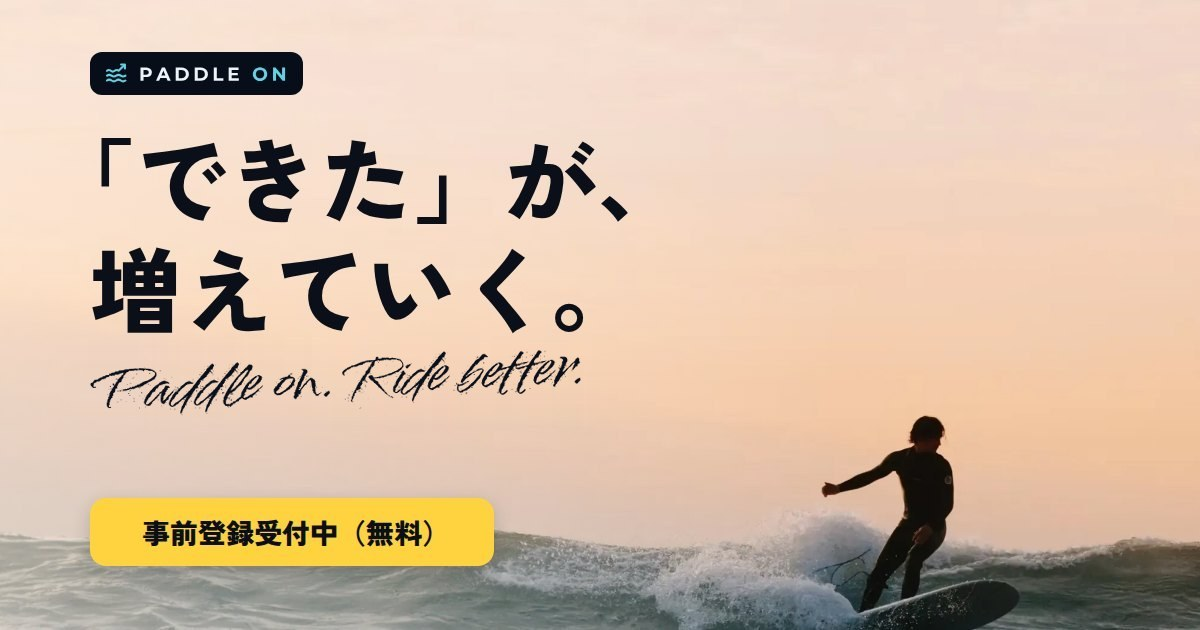
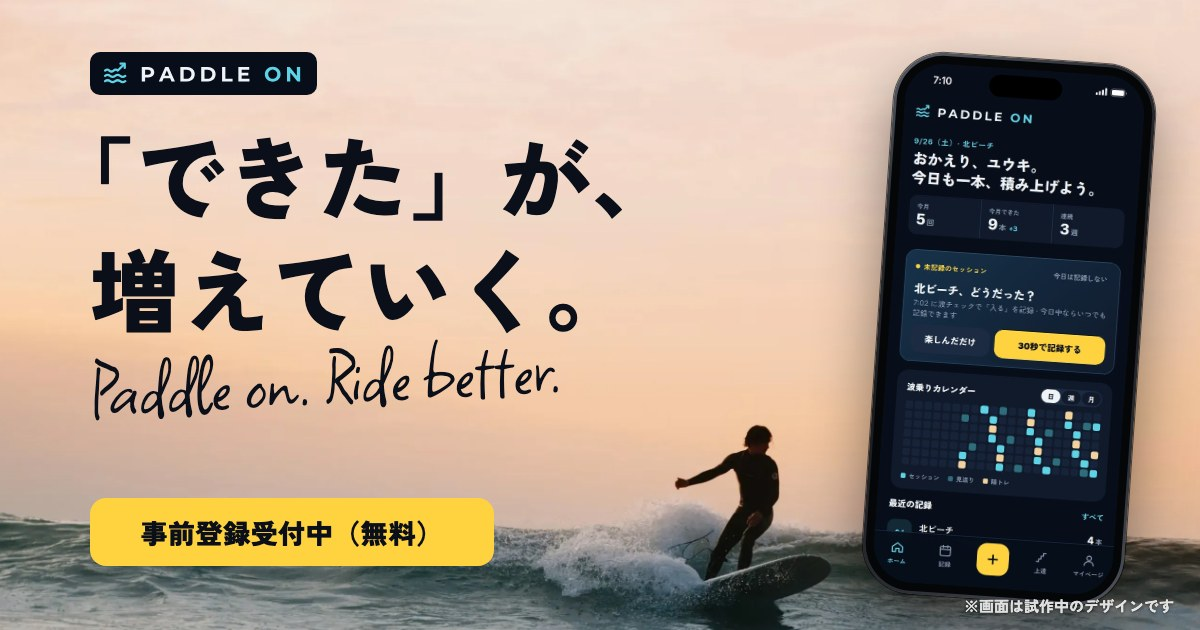
キャッチコピーのフォントを Square Peg に変更し、OGP画像にアプリの画面を追加
- LP：.tagline を Square Peg に（字が小さいフォントなので文字サイズを上げる）
- OGP画像：og/og.html から書き出す形に作り直し、アプリのホーム画面と「試作中」の注記を追加
- og/build.sh：Chrome で撮影して public/og.jpg を書き出すスクリプト
- 商標チェックの対象に og/ を追加

diff --git a/og/og.html b/og/og.html
@@ -1,0 +1,42 @@
+<!doctype html>
+<html lang="ja">
+<head>
+<meta charset="utf-8">
+<title>PADDLE ON の OGP 画像（1200×630）</title>
+<!--
+  OGP 画像（public/og.jpg）の元になるページ。og/build.sh が Chrome でこのページを 1200×630 で撮影して og.jpg を作る。
+  文言・フォント・アプリ画面を変えるときは、ここを直して build.sh を実行する。
+  他社のロゴ（Apple のマークなど）やストア名は入れない（CLAUDE.md「商標とロゴ」）。
+-->
+<link rel="preconnect" href="https://fonts.googleapis.com">
+<link rel="preconnect" href="https://fonts.gstatic.com" crossorigin>
+<link href="https://fonts.googleapis.com/css2?family=Square+Peg&display=block" rel="stylesheet">
+<style>
+@font-face{font-family:'Zen Kaku Gothic New';font-weight:700;src:url(../public/fonts/zkgn-700.woff2) format('woff2')}
+@font-face{font-family:'Zen Kaku Gothic New';font-weight:900;src:url(../public/fonts/zkgn-900.woff2) format('woff2')}
+*{box-sizing:border-box}
+html,body{margin:0;width:1200px;height:630px;overflow:hidden}
+body{position:relative;font-family:'Zen Kaku Gothic New',sans-serif;color:#0A0F1A;
+  background:#F3D9C6 url(../public/img/hero-bg.webp) no-repeat;background-size:var(--bg-w) auto;background-position:var(--bg-x) var(--bg-y);
+  --bg-w:2330px;--bg-x:-480px;--bg-y:-180px}
+.logo{position:absolute;left:90px;top:52px;display:flex;align-items:center;height:43px;padding:0 14px;border-radius:10px;background:#070E1A}
+h1{position:absolute;left:90px;top:118px;margin:0;font-weight:900;font-size:90px;line-height:1.25;letter-spacing:.01em;text-indent:-.5em;padding-left:.5em;margin-left:-.5em;white-space:nowrap}
+.tagline{position:absolute;left:92px;top:352px;font-family:'Square Peg',cursive;font-size:84px;line-height:1;white-space:nowrap;transform:rotate(-3deg);transform-origin:left center}
+.cta{position:absolute;left:90px;top:498px;display:flex;align-items:center;justify-content:center;width:404px;height:68px;border-radius:16px;background:#FFD23F;font-weight:900;font-size:27px;letter-spacing:.02em}
+/* アプリの画面（LP の .iphone と同じ作り） */
+.iphone{--w:262px;position:absolute;left:878px;top:58px;width:var(--w);padding:3px;border-radius:calc(var(--w)*.19);background:linear-gradient(145deg,#5A5F69 0%,#2A2D33 22%,#1B1D21 50%,#2A2D33 78%,#50545D 100%);box-shadow:0 30px 60px rgba(0,0,0,.45),0 0 0 1px rgba(0,0,0,.6);transform:rotate(4deg)}
+.iphone .bz{padding:calc(var(--w)*.03);border-radius:calc(var(--w)*.19 - 3px);background:#050608}
+.iphone img{display:block;width:100%;height:auto;aspect-ratio:780/1688;object-fit:cover;border-radius:calc(var(--w)*.16 - 3px)}
+.iphone .di{position:absolute;left:50%;top:calc(3px + var(--w)*.058);width:calc(var(--w)*.28);aspect-ratio:126/37;transform:translateX(-50%);border-radius:999px;background:#000}
+.note{position:absolute;right:26px;bottom:14px;font-weight:700;font-size:15px;color:rgba(255,255,255,.85);text-shadow:0 1px 3px rgba(0,0,0,.5)}
+</style>
+</head>
+<body>
+  <div class="logo"><svg width="198.6" height="23" viewBox="0 -2 552.7 64" role="img" aria-label="PADDLE ON" style="display: block; flex-shrink: 0"><g transform="translate(-2.96 -9.26) scale(0.74)"><path d="M8 42 q 8 -7 16 0 q 8 7 16 0 q 8 -7 16 0 L 80 18" fill="none" stroke="#5ED3E6" stroke-width="8.5" stroke-linecap="round" stroke-linejoin="round"/><path d="M66 16 L82 16 L82 32" fill="none" stroke="#5ED3E6" stroke-width="8.5" stroke-linecap="round" stroke-linejoin="round"/><path d="M8.0 62.0 q 9.5 -7.0 19.0 0 q 9.5 7.0 19.0 0 q 9.5 -7.0 19.0 0 q 9.5 7.0 19.0 0" fill="none" stroke="#5ED3E6" stroke-width="8.5" stroke-linecap="round" stroke-linejoin="round"/><path d="M8.0 82.0 q 9.5 -7.0 19.0 0 q 9.5 7.0 19.0 0 q 9.5 -7.0 19.0 0 q 9.5 7.0 19.0 0" fill="none" stroke="#5ED3E6" stroke-width="8.5" stroke-linecap="round" stroke-linejoin="round"/></g><g transform="translate(100.4 12)"><path d="M4.74 40V0H22.06Q27.43 0 31.31 1.74Q35.2 3.49 37.31 6.74Q39.43 10 39.43 14.51Q39.43 18.97 37.31 22.23Q35.2 25.49 31.31 27.23Q27.43 28.97 22.06 28.97H9.89L14 24.8V40ZM14 25.83 9.89 21.43H21.54Q25.83 21.43 27.94 19.6Q30.06 17.77 30.06 14.51Q30.06 11.2 27.94 9.37Q25.83 7.54 21.54 7.54H9.89L14 3.14ZM52.17 40 70 0H79.14L97.03 40H87.31L72.69 4.69H76.34L61.66 40ZM61.09 31.43 63.54 24.4H84.11L86.63 31.43ZM112.06 40V0H130.23Q136.74 0 141.71 2.49Q146.69 4.97 149.49 9.43Q152.29 13.89 152.29 20Q152.29 26.06 149.49 30.54Q146.69 35.03 141.71 37.51Q136.74 40 130.23 40ZM121.31 32.4H129.77Q133.77 32.4 136.71 30.89Q139.66 29.37 141.29 26.57Q142.91 23.77 142.91 20Q142.91 16.17 141.29 13.4Q139.66 10.63 136.71 9.11Q133.77 7.6 129.77 7.6H121.31ZM170.11 40V0H188.29Q194.8 0 199.77 2.49Q204.74 4.97 207.54 9.43Q210.34 13.89 210.34 20Q210.34 26.06 207.54 30.54Q204.74 35.03 199.77 37.51Q194.8 40 188.29 40ZM179.37 32.4H187.83Q191.83 32.4 194.77 30.89Q197.71 29.37 199.34 26.57Q200.97 23.77 200.97 20Q200.97 16.17 199.34 13.4Q197.71 10.63 194.77 9.11Q191.83 7.6 187.83 7.6H179.37ZM228.17 40V0H237.43V32.46H257.49V40ZM273.54 40V0H303.77V7.43H282.74V32.57H304.51V40ZM282.06 23.31V16.11H301.31V23.31Z" fill="#EEF3F8"/><path d="M369.2 40.69Q364.46 40.69 360.43 39.14Q356.4 37.6 353.46 34.8Q350.51 32 348.89 28.23Q347.26 24.46 347.26 20Q347.26 15.54 348.89 11.77Q350.51 8 353.49 5.2Q356.46 2.4 360.46 0.86Q364.46 -0.69 369.14 -0.69Q373.89 -0.69 377.86 0.86Q381.83 2.4 384.77 5.2Q387.71 8 389.37 11.74Q391.03 15.49 391.03 20Q391.03 24.46 389.37 28.26Q387.71 32.06 384.77 34.83Q381.83 37.6 377.86 39.14Q373.89 40.69 369.2 40.69ZM369.14 32.8Q371.83 32.8 374.09 31.89Q376.34 30.97 378.06 29.26Q379.77 27.54 380.71 25.2Q381.66 22.86 381.66 20Q381.66 17.14 380.71 14.8Q379.77 12.46 378.09 10.74Q376.4 9.03 374.11 8.11Q371.83 7.2 369.14 7.2Q366.46 7.2 364.2 8.11Q361.94 9.03 360.23 10.74Q358.51 12.46 357.57 14.8Q356.63 17.14 356.63 20Q356.63 22.8 357.57 25.17Q358.51 27.54 360.2 29.26Q361.89 30.97 364.17 31.89Q366.46 32.8 369.14 32.8ZM408.86 40V0H416.51L440.11 28.8H436.4V0H445.54V40H437.94L414.29 11.2H418V40Z" fill="#5ED3E6"/></g></svg></div>
+  <h1>「できた」が、<br>増えていく。</h1>
+  <div class="tagline">Paddle on. Ride better.</div>
+  <div class="cta">事前登録受付中（無料）</div>
+  <div class="iphone"><div class="bz"><img src="../public/img/app-home.jpg" alt=""></div><span class="di"></span></div>
+  <div class="note">※画面は試作中のデザインです</div>
+</body>
+</html>

diff --git a/public/index.html b/public/index.html
@@ -29,7 +29,7 @@
 <link rel="preload" as="image" href="img/hero-bg-sp.webp" media="(max-width:960px)" fetchpriority="high">
 <link rel="preconnect" href="https://fonts.googleapis.com">
 <link rel="preconnect" href="https://fonts.gstatic.com" crossorigin>
-<link href="https://fonts.googleapis.com/css2?family=Inter:wght@400;600;700;800;900&family=Montserrat:wght@700&family=Splash&display=swap" rel="stylesheet">
+<link href="https://fonts.googleapis.com/css2?family=Inter:wght@400;600;700;800;900&family=Montserrat:wght@700&family=Square+Peg&display=swap" rel="stylesheet">
 <style>
 @font-face{font-family:'Zen Kaku Gothic New';font-weight:500;font-display:swap;src:url(fonts/zkgn-500.woff2) format('woff2')}
 @font-face{font-family:'Zen Kaku Gothic New';font-weight:700;font-display:swap;src:url(fonts/zkgn-700.woff2) format('woff2')}
@@ -79,7 +79,7 @@ section{scroll-margin-top:72px}
 .hero .copy{display:flex;flex-direction:column;gap:22px}
 .pill{align-self:flex-start;font-size:12px;font-weight:700;color:var(--cyan);letter-spacing:.1em;border:1px solid rgba(94,211,230,.4);padding:4px 10px;border-radius:999px}
 .hero h1{font-size:clamp(36px,5.6vw,58px);line-height:1.25;text-indent:-.5em}
-.tagline{font-family:'Splash',cursive;font-weight:400;letter-spacing:.01em;color:var(--cyan);font-size:clamp(30px,3vw,38px);transform:rotate(-3deg);transform-origin:left center;margin-top:-4px}
+.tagline{font-family:'Square Peg',cursive;font-weight:400;letter-spacing:.01em;color:var(--cyan);font-size:clamp(40px,4.1vw,52px);line-height:1.1;transform:rotate(-3deg);transform-origin:left center;margin-top:-4px}
 .hero .lead{max-width:34em}
 .cta-row{display:flex;flex-wrap:wrap;gap:12px;align-items:center}
 .store{position:relative;display:inline-flex;align-items:center;gap:8px;height:48px;padding:0 16px;border-radius:12px;border:1px solid var(--line);color:var(--text);font-size:13px;font-weight:800}

diff --git a/scripts/check-trademarks.py b/scripts/check-trademarks.py
@@ -27,7 +27,8 @@ RULES = [
 ]
 
 errors: list[str] = []
-for path in sorted(PUBLIC.rglob("*")):
+targets = sorted(PUBLIC.rglob("*")) + sorted((ROOT / "og").rglob("*"))  # og/ は OGP 画像の元になるページ
+for path in targets:
     if path.suffix not in {".html", ".svg", ".css", ".js", ".txt", ".xml", ".md"}:
         continue
     for no, line in enumerate(path.read_text(encoding="utf-8", errors="ignore").splitlines(), 1):

diff --git a/docs/operations.md b/docs/operations.md
@@ -24,11 +24,12 @@ GA4の管理画面 →「データの表示」→「イベント」で `sign_up`
 ## 注意
 
 - **日本語フォント**：`public/fonts/` の Zen Kaku Gothic New は、ページ内の文字だけに絞って軽くしています（1ファイル約70KB）。文章を書き換えて新しい漢字を使うと、その文字だけ別の書体で表示されます。`npm run check` が足りない文字を知らせるので、出たらフォントを作り直します。
-- **英字フォント**：Inter・Montserrat・Splash は Google Fonts から読み込んでいます（プライバシーポリシーの「4. 外部サービスの利用」に記載済み）。
+- **英字フォント**：Inter・Montserrat・Square Peg は Google Fonts から読み込んでいます（プライバシーポリシーの「4. 外部サービスの利用」に記載済み）。
 
 - **Supabase の無料プラン**は、7日間データベースへのアクセスが少ないとプロジェクトが一時停止されます（停止の約1週間前と停止時に、オーナーにメールが届きます）。LPを見られるだけでは Supabase にアクセスしないので、登録が1週間なければ止まり、フォームが送れなくなります。止まったらダッシュボードから再開できます（停止から90日以内）。
   - 対策として、GitHub Actions の **Keepalive**（`.github/workflows/keepalive.yml`）が毎日 9:17（日本時間）に登録の関数を形式が誤ったメールアドレスで呼んでいます（行は増えず、お礼メールも送られません）。応答がおかしければワークフローが失敗し、GitHub からメールが届きます。
   - 公開リポジトリの定期実行は、60日間コミットがないと GitHub が自動で止めます（事前にメールが届きます）。止まったら **Actions → Keepalive → Enable workflow** で再開します。
+- **OGP 画像**：`public/og.jpg` は、`og/og.html`（1200×630 のページ）を Chrome で撮影して作っています。文言・フォント・アプリの画面を変えるときは、`og/og.html` を直して `bash og/build.sh` を実行します（Chrome と Python の Pillow が必要）。X や Facebook は古い画像をしばらく保存するので、シェアするときは URL に `?v=2` などを付けるか、Facebook のシェアデバッガーで更新します。
 - **写真**：背景写真は軽量な WebP 形式です。ヒーローがPC用 `img/hero-bg.webp`／スマホ用 `img/hero-bg-sp.webp`、使い方スライダーが `img/how-bg.webp`、ABOUTが `img/about-bg.webp`、最後のセクションが `img/closing-bg.webp`。ヒーローは人の位置に合わせてCSSで配置しているので、差し替える場合は位置の調整が必要です。
 - フォームにはスパム対策として、人には見えない入力欄（ハニーポット）を入れてあります。スパムが増えてきたら Cloudflare Turnstile の追加を検討してください。
 

diff --git a/.claude/rules/public.md b/.claude/rules/public.md
@@ -11,6 +11,7 @@ paths:
 - フォームの値は `join_waitlist` の引数と、`waitlist` 表の check 制約（`supabase/waitlist.sql`）に合わせる。選択肢を増やすときは SQL 側も変える必要がある。
 - GA4 のイベント名（`sign_up` / `cta_click` + `cta_location` / `form_start_signup`）は解析で使っているので変えない。新しい CTA には `cta_location` を付ける。
 - 文言を変えたら `python3 scripts/check-glyphs.py` を実行する。足りない文字が出たら skill `font-subset`。
+- `og.jpg` は直接加工しない。`og/og.html` を直して `bash og/build.sh` で書き出し、Read で開いて見た目（重なり・他社のロゴ・「試作中」の注記）を確認する。LP のキャッチコピーのフォントや見出しの文言を変えたら、`og/og.html` も合わせる。
 - 画像は WebP（写真）/ JPEG（アプリ画面）で軽くする。差し替えるときはファイル名と縦横比を保つ（ヒーローは人の位置に合わせて CSS で配置している）。
 - 動きは `prefers-reduced-motion` を尊重し、JS が無効でも内容が読めるようにしておく（既存の作りに合わせる）。
 - 他社のロゴ（Apple のりんごマークなど）と、配信前のストア名（App Store / Google Play）を使わない。対応機種は「iPhone版」と文字で書く（CLAUDE.md「商標とロゴ」）。画像を差し替えたら、ロゴが入っていないか目で確認する。

diff --git a/README.md b/README.md
@@ -17,6 +17,7 @@ paddleon-lp/
 │  ├─ waitlist.sql         登録を保存する表と、登録用の関数 join_waitlist
 │  ├─ send_thanks_trigger.sql  登録時にお礼メールの関数を呼ぶトリガー
 │  └─ functions/send-thanks/   お礼メールを送る Edge Function（preview.html でメールの見た目を確認）
+├─ og/                     OGP 画像の元（og.html）と、public/og.jpg を書き出すスクリプト（build.sh）
 ├─ docs/                   手順書・仕様書
 ├─ scripts/                本番に出す前のチェック（npm run check）
 ├─ .github/workflows/      チェック・プレビュー・本番デプロイ・リリース・Supabase の死活監視（GitHub Actions）
